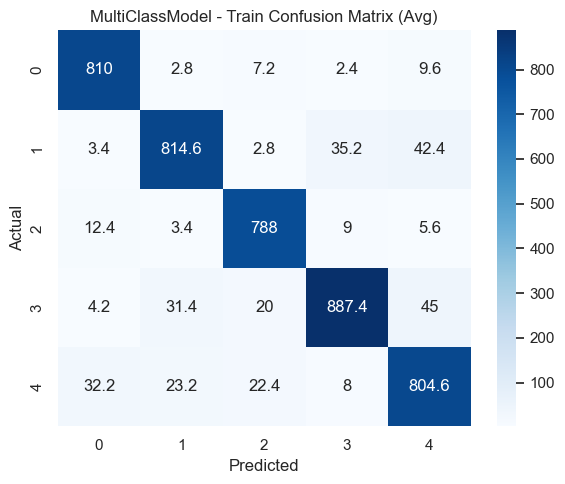
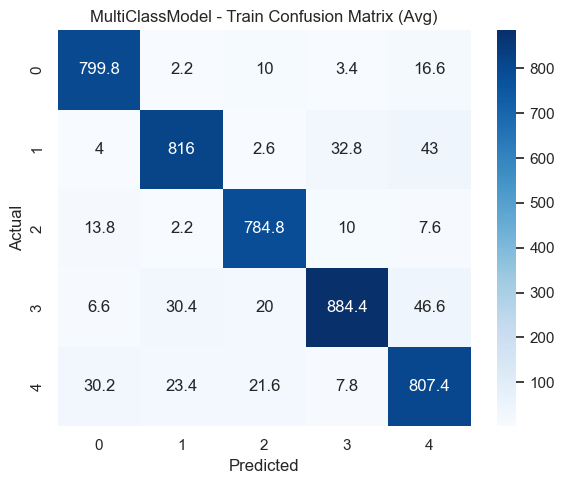
docs: update evaluation values and graphs

diff --git a/documentation/latex/sections/evaluation.tex b/documentation/latex/sections/evaluation.tex
@@ -41,7 +41,7 @@ Dove:
 
 \subsection{Risultati di Addestramento}
 
-Il modello \textbf{Naive Bayes} ha ottenuto un'accuratezza complessiva del \textbf{92.71\%} sui dati di addestramento. Questa performance suggerisce una buona capacità del modello di generalizzare il comportamento delle classi, mantenendo un buon livello di prestazioni anche su dati non visti. \\ \\
+Il modello \textbf{Naive Bayes} ha ottenuto un'accuratezza complessiva del \textbf{92.43\%} sui dati di addestramento. Questa performance suggerisce una buona capacità del modello di generalizzare il comportamento delle classi, mantenendo un buon livello di prestazioni anche su dati non visti. \\ \\
 La matrice di confusione, che riporta il numero di previsioni corrette e errate per ciascuna classe, mostra i seguenti risultati:
 
 \begin{figure}[H]
@@ -51,7 +51,8 @@ La matrice di confusione, che riporta il numero di previsioni corrette e errate 
     \label{fig:confusion_matrix_train_naive_bayes}
 \end{figure}
 
-Il modello mostra buone prestazioni complessive, con un'alta percentuale di istanze correttamente classificate, come evidenziato dai valori elevati sulla \textbf{diagonale principale}. Tuttavia, ci sono errori significativi tra alcune classi, in particolare tra le classi 1, 3 e 4, dove il modello ha difficoltà a distinguere correttamente. Questo evidenzia alcune aree in cui il modello potrebbe migliorare nel riconoscere meglio le differenze tra queste classi.
+Il modello mostra buone prestazioni complessive, con un'alta percentuale di istanze correttamente classificate, come evidenziato dai valori elevati sulla \textbf{diagonale principale}. Tuttavia, ci sono errori significativi tra alcune classi, in particolare tra le classi 0, 1 e 4, dove il modello ha difficoltà a distinguere correttamente. Per esempio, molte istanze della classe 0 sono state erroneamente classificate come classe 4, e molte istanze della classe 1 sono state scambiate con le classi 3 e 4. Questo evidenzia alcune aree in cui il modello potrebbe migliorare nel riconoscere meglio le differenze tra queste classi.
+
 
 \newpage
 
@@ -63,19 +64,19 @@ Le metriche per ogni categoria sono mostrate nella seguente tabella e visualizza
         \hline
         \textbf{Categoria} & \textbf{Precision} & \textbf{Recall} & \textbf{F1-score} \\
         \hline
-        Accesso & 93.95\% & 97.35\% & 95.62\% \\
+        Accesso & 93.61\% & 96.13\% & 94.85\% \\
         \hline
-        Didattica & 93.05\% & 90.67\% & 91.84\% \\
+        Didattica & 93.34\% & 90.82\% & 92.06\% \\
         \hline
-        Profilo & 93.78\% & 96.28\% & 95.01\% \\
+        Profilo & 93.55\% & 95.89\% & 94.70\% \\
         \hline
-        Segreteria & 94.20\% & 89.82\% & 91.96\% \\
+        Segreteria & 94.24\% & 89.51\% & 91.82\% \\
         \hline
-        Tecnico & 88.70\% & 90.36\% & 89.52\% \\
+        Tecnico & 87.65\% & 90.67\% & 89.14\% \\
         \hline
-        Media & 92.74\% & 92.90\% & 92.79\% \\
+        Media & 92.48\% & 92.61\% & 92.51\% \\
         \hline
-        Media pesata & 92.73\% & 92.71\% & 92.70\% \\
+        Media pesata & 92.49\% & 92.44\% & 92.43\% \\
         \hline
     \end{tabular}
     \caption{Confronto tra precision, recall e F1-score per il training di Naive Bayes}
@@ -89,13 +90,14 @@ Le metriche per ogni categoria sono mostrate nella seguente tabella e visualizza
     \label{fig:metrics_train_naive_bayes}
 \end{figure}
 
-Il modello mostra buone performance complessive, ma nelle categorie \textbf{Segreteria} e \textbf{Tecnico} ci sono margini di miglioramento. \textbf{Segreteria} ha una buona precisione, ma un recall relativamente basso, mentre \textbf{Tecnico} ha un buon recall, ma una precisione più bassa.
+Il modello mostra buone performance complessive, ma nelle categorie \textbf{Segreteria} e \textbf{Tecnico} ci sono margini di miglioramento. \textbf{Segreteria} ha una buona precisione (94.24\%), ma un recall relativamente basso (89.51\%), mentre \textbf{Tecnico} ha un buon recall (90.67\%), ma una precisione più bassa (87.65\%).
+
 
 \newpage
 
 \subsection{Risultati di Test}
 
-Per quanto riguarda i \textbf{dati di test}, il modello ha ottenuto un'accuratezza del \textbf{89.42\%}, una leggera riduzione rispetto ai dati di addestramento, ma comunque una performance robusta. \\ \\
+Per quanto riguarda i \textbf{dati di test}, il modello ha ottenuto un'accuratezza del \textbf{88.92\%}, una leggera riduzione rispetto ai dati di addestramento, ma comunque una performance robusta. \\ \\
 La matrice di confusione sui dati di test è la seguente:
 
 \begin{figure}[H]
@@ -113,19 +115,19 @@ Mentre le metriche per ogni categoria sono mostrate nella seguente tabella e vis
         \hline
         \textbf{Categoria} & \textbf{Precision} & \textbf{Recall} & \textbf{F1-score} \\
         \hline
-        Accesso & 91.95\% & 95.40\% & 93.62\% \\
+        Accesso & 90.83\% & 93.38\% & 92.07\% \\
         \hline
-        Didattica & 89.53\% & 86.53\% & 87.99\% \\
+        Didattica & 89.35\% & 86.27\% & 87.77\% \\
         \hline
-        Profilo & 91.42\% & 93.77\% & 92.56\% \\
+        Profilo & 91.02\% & 93.70\% & 92.33\% \\
         \hline
-        Segreteria & 91.14\% & 85.62\% & 88.29\% \\
+        Segreteria & 91.67\% & 85.15\% & 88.28\% \\
         \hline
-        Tecnico & 83.46\% & 87.05\% & 85.19\% \\
+        Tecnico & 82.18\% & 87.25\% & 84.63\% \\
         \hline
-        Media & 89.50\% & 89.67\% & 89.53\% \\
+        Media & 89.01\% & 89.15\% & 89.02\% \\
         \hline
-        Media pesata & 89.50\% & 89.43\% & 89.41\% \\
+        Media pesata & 89.05\% & 88.92\% & 88.92\% \\
         \hline
     \end{tabular}
     \caption{Confronto tra precision, recall e F1-score per il testing di Naive Bayes}
@@ -141,7 +143,7 @@ Mentre le metriche per ogni categoria sono mostrate nella seguente tabella e vis
 
 \subsection{Overfitting}
 
-Per valutare il rischio di \textbf{overfitting}, sono stati analizzati i valori di accuratezza nei diversi fold della validazione incrociata a k-fold. Le differenze tra l'accuratezza dei dati variano tra \textbf{0.01} e \textbf{0.05}, con una media di \textbf{0.0328}. Sebbene vi sia una leggera tendenza all'overfitting, i valori rientrano in un intervallo accettabile, confermando la buona generalizzazione del modello.
+Per valutare il rischio di \textbf{overfitting}, sono stati analizzati i valori di accuratezza nei diversi fold della validazione incrociata a k-fold. Le differenze tra l'accuratezza dei dati variano tra \textbf{0.02} e \textbf{0.05}, con una media di \textbf{0.0351}. Sebbene vi sia una leggera tendenza all'overfitting, i valori rientrano in un intervallo accettabile, confermando la buona generalizzazione del modello.
 
 \begin{figure}[H]
     \centering
@@ -156,7 +158,7 @@ Per valutare il rischio di \textbf{overfitting}, sono stati analizzati i valori 
 
 \subsection{Risultati di Addestramento}
 
-Il modello \textbf{Support Vector Machine (SVM)} ha ottenuto un'accuratezza complessiva del \textbf{93.10\%} sui dati di addestramento. Questo risultato suggerisce una forte capacità del modello nel generalizzare il comportamento delle classi, mantenendo alte prestazioni anche su dati non visti. \\ \\
+Il modello \textbf{Support Vector Machine (SVM)} ha ottenuto un'accuratezza complessiva del \textbf{92.06\%} sui dati di addestramento. Questo risultato suggerisce una forte capacità del modello nel generalizzare il comportamento delle classi, mantenendo alte prestazioni anche su dati non visti. \\ \\
 La matrice di confusione, che riporta il numero di previsioni corrette ed errate per ciascuna classe, è la seguente:
 
 \begin{figure}[H]
@@ -166,7 +168,7 @@ La matrice di confusione, che riporta il numero di previsioni corrette ed errate
     \label{fig:confusion_matrix_train_svm}
 \end{figure}
 
-Il modello mostra buone prestazioni complessive, con un’alta percentuale di istanze correttamente classificate, come evidenziato dai valori elevati sulla \textbf{diagonale principale}. Tuttavia, ci sono errori notabili tra alcune classi, in particolare tra le classi 1 e 4, dove il modello fatica a distinguere correttamente.
+Il modello mostra buone prestazioni complessive, con un'alta percentuale di istanze correttamente classificate, come evidenziato dai valori elevati sulla \textbf{diagonale principale}. Tuttavia, ci sono errori significativi tra alcune classi, in particolare tra le classi 0, 3 e 4, dove il modello ha difficoltà a distinguere correttamente. Per esempio, molte istanze della classe 0 sono state erroneamente classificate come classe 4, mentre la classe 3 ha causato scambi con le classi 1 e 4. Inoltre, la classe 1 ha mostrato confusione con la classe 3, con molte istanze della classe 1 erroneamente classificate come classe 3. Questo evidenzia alcune aree in cui il modello potrebbe migliorare nel riconoscere meglio le differenze tra queste classi .
 
 \newpage
 
@@ -178,19 +180,19 @@ Le metriche per ogni categoria sono mostrate nella seguente tabella e visualizza
         \hline
         \textbf{Categoria} & \textbf{Precision} & \textbf{Recall} & \textbf{F1-score} \\
         \hline
-        Accesso & 94.94\% & 96.16\% & 95.55\% \\
+        Accesso & 92.97\% & 93.39\% & 93.18\% \\
         \hline
-        Didattica & 91.67\% & 92.07\% & 91.87\% \\
+        Didattica & 91.13\% & 91.80\% & 91.46\% \\
         \hline
-        Profilo & 97.02\% & 96.16\% & 96.59\% \\
+        Profilo & 96.49\% & 95.94\% & 96.21\% \\
         \hline
-        Segreteria & 91.71\% & 92.08\% & 91.89\% \\
+        Segreteria & 91.61\% & 91.21\% & 91.41\% \\
         \hline
-        Tecnico & 90.77\% & 89.61\% & 90.18\% \\
+        Tecnico & 88.66\% & 88.48\% & 88.57\% \\
         \hline
-        Media & 93.22\% & 93.22\% & 93.22\% \\
+        Media & 92.17\% & 92.17\% & 92.16\% \\
         \hline
-        Media pesata & 93.10\% & 93.10\% & 93.10\% \\
+        Media pesata & 92.07\% & 92.07\% & 92.07\% \\
         \hline
     \end{tabular}
     \caption{Confronto tra precision, recall e F1-score per il training di SVM}
@@ -204,13 +206,13 @@ Le metriche per ogni categoria sono mostrate nella seguente tabella e visualizza
     \label{fig:metrics_train_svm}
 \end{figure}
 
-Il modello ha buone performance complessive, ma nelle categorie \textbf{Tecnico} e \textbf{Didattica} ci sono margini di miglioramento. \textbf{Tecnico} mostra una precisione relativamente bassa e un richiamo anch'esso non eccellente, mentre \textbf{Didattica} ha una buona precisione, ma un richiamo leggermente inferiore rispetto ad altre categorie.
+Il modello mostra buone performance complessive, ma nelle categorie \textbf{Tecnico} e \textbf{Didattica} ci sono margini di miglioramento. \textbf{Tecnico} ha una buona precisione (88.66\%), ma un recall relativamente basso (88.48\%), mentre \textbf{Didattica} ha un buon recall (91.80\%), ma una precisione più bassa (91.13\%).
 
 \newpage
 
 \subsection{Risultati di Test}
 
-Per quanto riguarda i \textbf{dati di test}, il modello ha ottenuto un'accuratezza del \textbf{90.82\%}, con una leggera riduzione rispetto ai dati di addestramento, ma comunque una performance robusta. \\ \\
+Per quanto riguarda i \textbf{dati di test}, il modello ha ottenuto un'accuratezza del \textbf{89.95\%}, con una leggera riduzione rispetto ai dati di addestramento, ma comunque una performance robusta. \\ \\
 La matrice di confusione sui dati di test è la seguente:
 
 \begin{figure}[H]
@@ -228,19 +230,19 @@ Mentre le metriche per ogni categoria sono mostrate nella seguente tabella e vis
         \hline
         \textbf{Categoria} & \textbf{Precision} & \textbf{Recall} & \textbf{F1-score} \\
         \hline
-        Accesso & 93.55\% & 94.85\% & 94.18\% \\
+        Accesso & 91.67\% & 92.14\% & 91.89\% \\
         \hline
-        Didattica & 88.66\% & 89.23\% & 88.94\% \\
+        Didattica & 89.19\% & 89.07\% & 89.13\% \\
         \hline
-        Profilo & 96.02\% & 94.61\% & 95.30\% \\
+        Profilo & 95.50\% & 94.02\% & 94.74\% \\
         \hline
-        Segreteria & 89.67\% & 88.81\% & 89.23\% \\
+        Segreteria & 89.14\% & 88.81\% & 88.97\% \\
         \hline
-        Tecnico & 87.08\% & 87.37\% & 87.21\% \\
+        Tecnico & 85.14\% & 86.27\% & 85.69\% \\
         \hline
-        Media & 90.99\% & 90.97\% & 90.97\% \\
+        Media & 90.13\% & 90.06\% & 90.08\% \\
         \hline
-        Media pesata & 90.86\% & 90.82\% & 90.82\% \\
+        Media pesata & 90.01\% & 89.95\% & 89.97\% \\
         \hline
     \end{tabular}
     \caption{Confronto tra precision, recall e F1-score per il testing di SVM}
@@ -256,7 +258,7 @@ Mentre le metriche per ogni categoria sono mostrate nella seguente tabella e vis
 
 \subsection{Overfitting}
 
-Per valutare il rischio di \textbf{overfitting}, sono stati analizzati i valori di accuratezza nei diversi fold della validazione incrociata a k-fold. Le differenze tra l'accuratezza dei dati variano tra \textbf{0.01} e \textbf{0.04}, con una media di \textbf{0.0228}. Sebbene ci sia una leggera tendenza all'overfitting, i valori rientrano in un intervallo accettabile, confermando la buona generalizzazione del modello.
+Per valutare il rischio di \textbf{overfitting}, sono stati analizzati i valori di accuratezza nei diversi fold della validazione incrociata a k-fold. Le differenze tra l'accuratezza dei dati variano tra \textbf{0.01} e \textbf{0.04}, con una media di \textbf{0.0211}. Sebbene vi sia una leggera tendenza all'overfitting, i valori rientrano in un intervallo accettabile, confermando la buona generalizzazione del modello.
 
 \begin{figure}[H]
     \centering
@@ -271,7 +273,7 @@ Per valutare il rischio di \textbf{overfitting}, sono stati analizzati i valori 
 
 \subsection{Prestazioni Complessive}
 
-Entrambi i modelli, \textbf{Naive Bayes} e \textbf{SVM}, mostrano prestazioni molto simili. Durante il training, \textbf{Naive Bayes} raggiunge un'accuratezza del 92.71\%, mentre \textbf{SVM} è leggermente migliore con un'accuratezza del 93.10\%. Quando testati sui dati di test, entrambi i modelli registrano una piccola diminuzione delle performance, con \textbf{Naive Bayes} che scende al 89.43\% e \textbf{SVM} che ottiene il 90.82\%. Le metriche di precisione, recall e f1-score sono anch'esse molto simili per entrambi i modelli, suggerendo che entrambi sono abbastanza equilibrati nel bilanciare la capacità di classificare correttamente le istanze e nel ridurre al minimo gli errori.
+Entrambi i modelli, \textbf{Naive Bayes} e \textbf{SVM}, mostrano prestazioni molto simili. Durante il training, \textbf{Naive Bayes} raggiunge un'accuratezza del 92.44\%, mentre \textbf{SVM} è leggermente migliore con un'accuratezza del 92.07\%. Quando testati sui dati di test, entrambi i modelli registrano una piccola diminuzione delle performance, con \textbf{Naive Bayes} che scende al 88.92\% e \textbf{SVM} che ottiene il 89.95\%. Le metriche di precisione, recall e f1-score sono anch'esse molto simili per entrambi i modelli, suggerendo che entrambi sono abbastanza equilibrati nel bilanciare la capacità di classificare correttamente le istanze e nel ridurre al minimo gli errori.
 
 \begin{table}[H]
     \centering
@@ -279,13 +281,13 @@ Entrambi i modelli, \textbf{Naive Bayes} e \textbf{SVM}, mostrano prestazioni mo
         \hline
         \textbf{Modello} & \textbf{Set} & \textbf{Accuracy} & \textbf{Precision} & \textbf{Recall} & \textbf{F1-score} \\
         \hline
-        Naive Bayes & Training & 92.71\% & 92.74\% & 92.71\% & 92.72\% \\
+        Naive Bayes & Training & 92.44\% & 92.49\% & 92.44\% & 92.43\% \\
         \hline
-        Naive Bayes & Test & 89.43\% & 89.50\% & 89.43\% & 89.44\% \\
+        Naive Bayes & Test & 88.92\% & 89.05\% & 88.92\% & 88.92\% \\
         \hline
-        SVM & Training & 93.10\% & 93.22\% & 93.10\% & 93.12\% \\
+        SVM & Training & 92.07\% & 92.17\% & 92.07\% & 92.07\% \\
         \hline
-        SVM & Test & 90.82\% & 90.86\% & 90.82\% & 90.82\% \\
+        SVM & Test & 89.95\% & 90.01\% & 89.95\% & 89.97\% \\
         \hline
     \end{tabular}
     \caption{Confronto tra i modelli in termini di accuracy, precision, recall e F1-score}
@@ -295,8 +297,7 @@ Entrambi i modelli, \textbf{Naive Bayes} e \textbf{SVM}, mostrano prestazioni mo
 
 \subsection{Overfitting}
 
-Sia il modello \textbf{Naive Bayes} che il modello \textbf{SVM} mostrano una lieve presenza di \textbf{overfitting}, con differenze tra le performance sui dati che variano tra \textbf{0.02} e \textbf{0.05}. \\ \\
-Per meglio visualizzare e comprendere l'andamento dell'overfitting, è stato calcolato il valore della differenza per ogni fold del k-fold cross-validation. La seguente immagine mostra queste differenze per ciascun fold, confrontando l'overfitting tra i modelli Naive Bayes e SVM.
+Sia il modello \textbf{Naive Bayes} che il modello \textbf{SVM} mostrano una lieve presenza di \textbf{overfitting}, con differenze tra le performance sui dati che variano tra \textbf{0.01} e \textbf{0.05} per Naive Bayes e tra \textbf{0.01} e \textbf{0.04} per SVM. Le differenze medie sono però significative: Naive Bayes ha una differenza media di \textbf{0.0351}, mentre SVM di \textbf{0.0211}, suggerendo che SVM ha una prestazione più stabile. L'andamento dell'overfitting è stato visualizzato calcolando le differenze per ogni fold del \textbf{k-fold cross-validation}, come mostrato nell'immagine seguente, che confronta i due modelli.
 
 \begin{figure}[H]
     \centering
@@ -307,9 +308,10 @@ Per meglio visualizzare e comprendere l'andamento dell'overfitting, è stato cal
 
 \section{Conclusioni}
 
-Entrambi i modelli, Naive Bayes e Support Vector Machine (SVM), hanno mostrato prestazioni eccellenti nel compito di \textbf{classificazione}, evidenziando differenze minime nelle metriche di valutazione. Sebbene il modello SVM ottenga risultati migliori leggermente in termini di accuratezza sui dati di test, con un'accuratezza del \textbf{90.82\%} rispetto al \textbf{89.43\%} di Naive Bayes, la differenza tra i due modelli risulta essere piuttosto contenuta, con un margine di pochi punti percentuali. Questo indica che entrambi i modelli sono ben calibrati per il compito e sono capaci di generalizzare efficacemente. \newline
-\textbf{Naive Bayes}, grazie alla sua semplicità e velocità di esecuzione, potrebbe essere la scelta preferibile in scenari in cui le risorse computazionali sono limitate o in situazioni che richiedono modelli facilmente interpretabili. Inoltre, la capacità di Naive Bayes di gestire efficacemente grandi volumi di dati con risorse relativamente basse lo rende adatto per applicazioni in tempo reale o su dispositivi con risorse limitate.
+Entrambi i modelli, Naive Bayes e Support Vector Machine (SVM), hanno mostrato prestazioni eccellenti nel compito di \textbf{classificazione}, evidenziando differenze minime nelle metriche di valutazione. Sebbene il modello SVM ottenga risultati leggermente migliori in termini di accuratezza sui dati di test, con un’accuratezza del \textbf{89.95\%} rispetto al \textbf{88.92\%} di Naive Bayes, la differenza tra i due modelli è contenuta. Inoltre, i dati sull'overfitting suggeriscono che SVM presenta una prestazione più stabile, con una minore differenza media tra i fold della \textbf{validazione incrociata}, rispetto a Naive Bayes. Questo indica che entrambi i modelli sono ben calibrati per il compito e sono capaci di generalizzare efficacemente.
 
-D'altra parte, il modello \textbf{SVM} si distingue per una maggiore precisione in alcuni casi, come evidenziato dalle metriche di precisione e recall, ed è generalmente considerato una scelta solida quando è necessaria una maggiore accuratezza, specialmente in contesti dove la performance sui dati di test è cruciale e si dispone di risorse computazionali adeguate. SVM è inoltre più adatto per situazioni che richiedono una maggiore capacità di generalizzazione rispetto a modelli con assunzioni più forti, come Naive Bayes.
+\textbf{Naive Bayes}, grazie alla sua semplicità e velocità di esecuzione, potrebbe essere la scelta preferibile in scenari con risorse computazionali limitate o in situazioni che richiedono modelli facilmente interpretabili. La sua capacità di gestire grandi volumi di dati con risorse relativamente basse lo rende adatto per applicazioni in tempo reale o su dispositivi con risorse limitate.
 
-In definitiva, entrambi i modelli sono validi per il problema in esame e presentano un buon compromesso tra \textbf{accuratezza} e capacità di \textbf{generalizzazione}. La scelta finale tra Naive Bayes e SVM dipenderà da considerazioni specifiche relative all'ambiente applicativo, come la disponibilità di risorse computazionali, la necessità di interpretabilità del modello e la priorità data a una leggera miglioria nelle prestazioni rispetto alla velocità di esecuzione.
+D’altra parte, \textbf{SVM} si distingue per una maggiore precisione in alcuni casi, ed è generalmente considerato una scelta solida quando è necessaria maggiore accuratezza e quando sono disponibili risorse computazionali adeguate. Inoltre, SVM è più adatto per situazioni che richiedono una maggiore capacità di generalizzazione.
+
+In definitiva, entrambi i modelli sono validi per il problema in esame e presentano un buon compromesso tra \textbf{accuratezza} e capacità di \textbf{generalizzazione}. La scelta finale tra Naive Bayes e SVM dipenderà da considerazioni specifiche, come la disponibilità di risorse computazionali, la necessità di interpretabilità del modello e la priorità data a una leggera miglioria nelle prestazioni rispetto alla velocità di esecuzione. 

diff --git a/documentation/latex/sections/ending.tex b/documentation/latex/sections/ending.tex
@@ -1,5 +1,5 @@
 \chapter{Conclusioni Finali}
-L'analisi e lo sviluppo di \textit{AstroMark-AI} hanno evidenziato l'efficacia dell'approccio adottato per la classificazione testuale mediante tecniche di machine learning. Il confronto tra i modelli \textit{Naive Bayes} e \textit{Support Vector Machine (SVM)} ha mostrato prestazioni simili, con \textit{SVM} che ha ottenuto un leggero vantaggio in termini di accuratezza, raggiungendo il $90.79\%$ rispetto all'$89.74\%$ di \textit{Naive Bayes}. Tuttavia, entrambi i modelli hanno dimostrato una buona generalizzazione e robustezza.
+L'analisi e lo sviluppo di \textit{AstroMark-AI} hanno evidenziato l'efficacia dell'approccio adottato per la classificazione testuale mediante tecniche di machine learning. Il confronto tra i modelli \textit{Naive Bayes} e \textit{Support Vector Machine (SVM)} ha mostrato prestazioni simili, con \textit{SVM} che ha ottenuto un leggero vantaggio in termini di accuratezza, raggiungendo il $85.95\%$ rispetto all'$88.92\%$ di \textit{Naive Bayes}. Tuttavia, entrambi i modelli hanno dimostrato una buona generalizzazione e robustezza.
 
 L'uso di \textit{TF-IDF} come metodo di rappresentazione testuale si è rivelato efficace per l'elaborazione dei dati, garantendo un equilibrio tra interpretabilità e prestazioni computazionali. La pipeline di preprocessing e feature engineering ha permesso di migliorare la qualità dei dati, riducendo il rumore e ottimizzando la rappresentazione delle informazioni.
 
